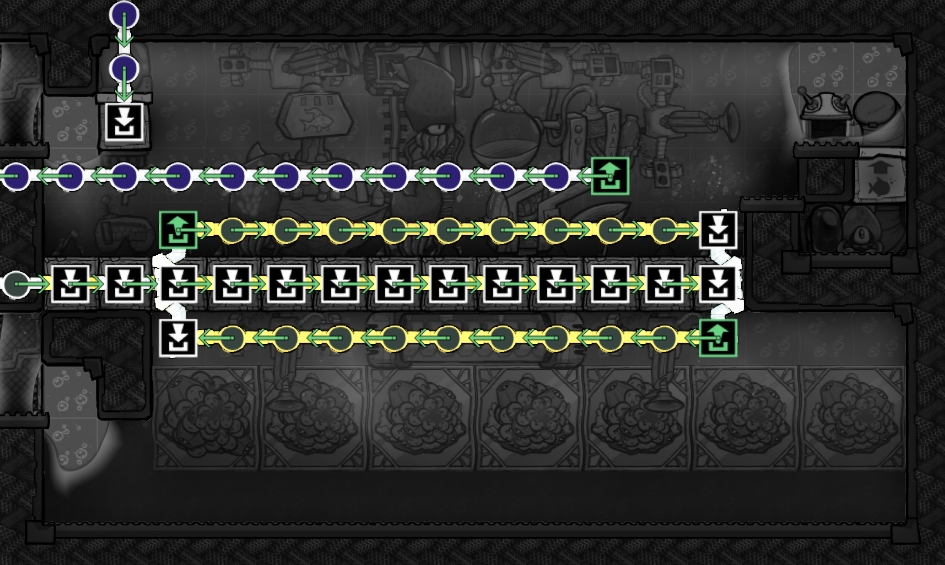
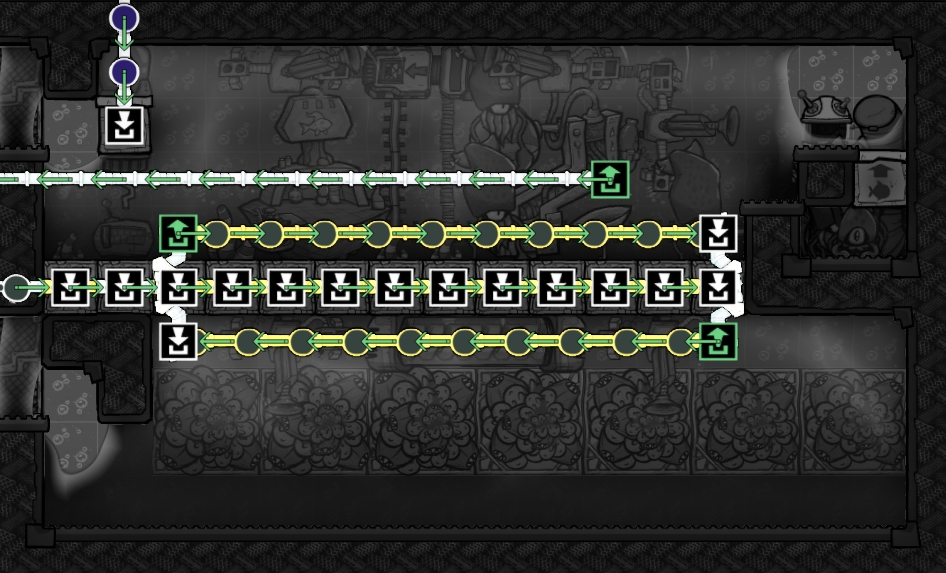
docs: 更新养鱼

diff --git a/docs/yz/fish.md b/docs/yz/fish.md
@@ -16,60 +16,56 @@
 - 拥挤只看联通水域大小，不看可游动水域大小
 - 可以中层铺多液体，上下层铺少量液体，但是必须达到挥发物超压条件
 
-### 养殖比例
-
-| 鱼类       | 食物   | 进食量 / 作物产量 | 养殖比例 |
-| :--------- | :----- | :---------------- | :------- |
-| **帕库鱼** | 海梳蕨 | 20千克 / 10千克   | 1 : 2    |
-| **灯喙鱼** | 藤壶星 | 13% / 25%         | 2 : 1    |
-| **彩斑鱿** | 管虫   | 25% / 12.5%       | 1 : 2    |
-| **海马**   | 巨钳蚌 |                   | 2 : 1    |
-
 ## 帕库鱼（通用）
 
 - 18 x 6
 
 ![](/imgs/yz/pakuyu1.jpg)
 
-### 补充
+- 真空隔热
 
-- 鱼类移取点用来补充小动物数量
-- 左侧水量少一点，不能游动，把鱼儿卡到右侧
-- 左侧水太少的话，会被挥发物破坏结构（注意）
+![](/imgs/yz/pakuyu-gr.jpg)
 
-![](/imgs/yz/fish-buchong.jpg)
-
-### 清扫
-
-- 用一个砖块格挡，让清扫器不能覆盖底层装载器，避免循环运蛋
-- 如果砖上落了蛋，清扫不到！问题很严重！
-- 参考鱿鱼模式
-
-![](/imgs/yz/pakuyu2.jpg)
-
-- 三个清扫器分别运送 食物、杂物、蛋
-
-![](/imgs/yz/pakuyu4.jpg)
-
-## 灯喙鱼
-
-- 18 x 6
-
-![](/imgs/yz/denghuiyu1.jpg)
-
-## 彩斑鱿
-
-| 名称   | 消耗产出       | 温度      | 比例 | 其他      |
-| ------ | -------------- | --------- | ---- | --------- |
-| 彩斑鱿 | 25% 生长进度   | 40 - 100° | 1    | 12格/拥挤 |
-| 管虫   | 12.5% 生长进度 | 50 - 110° | 2    |           |
-| 针胆团 |                | 40 - 80°  |      |           |
-
-- 18 x 11
 - 补充区
   - 务必放两格不同气体，防止挤压合并
   - 务必放少量液体，创建不可游动区域
   - 可以用石油等隔断一下，防止挤压合并
+
+![](/imgs/yz/pakuyu-bc.jpg)
+
+- 清扫器
+  - 覆盖补充区的清扫器不覆盖储蛋箱，只覆盖储杂物箱
+
+![](/imgs/yz/pakuyu-qs.jpg)
+
+## 灯喙鱼
+
+| 名称   | 消耗产出       | 温度     | 比例 |
+| ------ | -------------- | -------- | ---- |
+| 灯喙鱼 | 12.5% 生长进度 | 0 - 60°  | 2    |
+| 藤壶星 | 25% 生长进度   | 25 - 45° | 1    |
+
+- 18 x 6
+- 精养5只，8格拥挤
+- 产出 石灰
+
+![](/imgs/yz/denghuiyu1.jpg)
+
+- 18 x 11
+
+![](/imgs/yz/fish-denghuiyu.jpg)
+
+## 彩斑鱿
+
+| 名称   | 消耗产出       | 温度      | 比例 |
+| ------ | -------------- | --------- | ---- |
+| 彩斑鱿 | 25% 生长进度   | 40 - 100° | 1    |
+| 管虫   | 12.5% 生长进度 | 50 - 110° | 2    |
+| 针胆团 |                | 40 - 80°  |      |
+
+- 18 x 11
+- 精养3只，12格拥挤
+- 产出 墨汁、针胆（钻石）
 - 液体加热器 - `5 x 5` 范围内需要至少一格液体达到 `400千克` 以上
 
 ![](/imgs/yz/caibanyou01.jpg)
@@ -80,12 +76,14 @@
 
 ## 海马
 
-| 名称   | 珍珠          | 比例 | 其他     |
-| ------ | ------------- | ---- | -------- |
-| 海马   | -3125 克/周期 | 2    | 8格/拥挤 |
-| 巨钳蚌 | +6300 克/周期 | 1    |          |
+| 名称   | 珍珠          | 温度     | 比例 |
+| ------ | ------------- | -------- | ---- |
+| 海马   | -3125 克/周期 | 0 - 60°  | 2    |
+| 巨钳蚌 | +6300 克/周期 | 25 - 45° | 1    |
 
 - 18 x 11
+- 精养4+只，8格拥挤
+- 产出 菌泥、粘蛋白、鱼子酱、珍珠
 - 储物箱 - 沙子
 
 ![](/imgs/yz/haima01.jpg)
